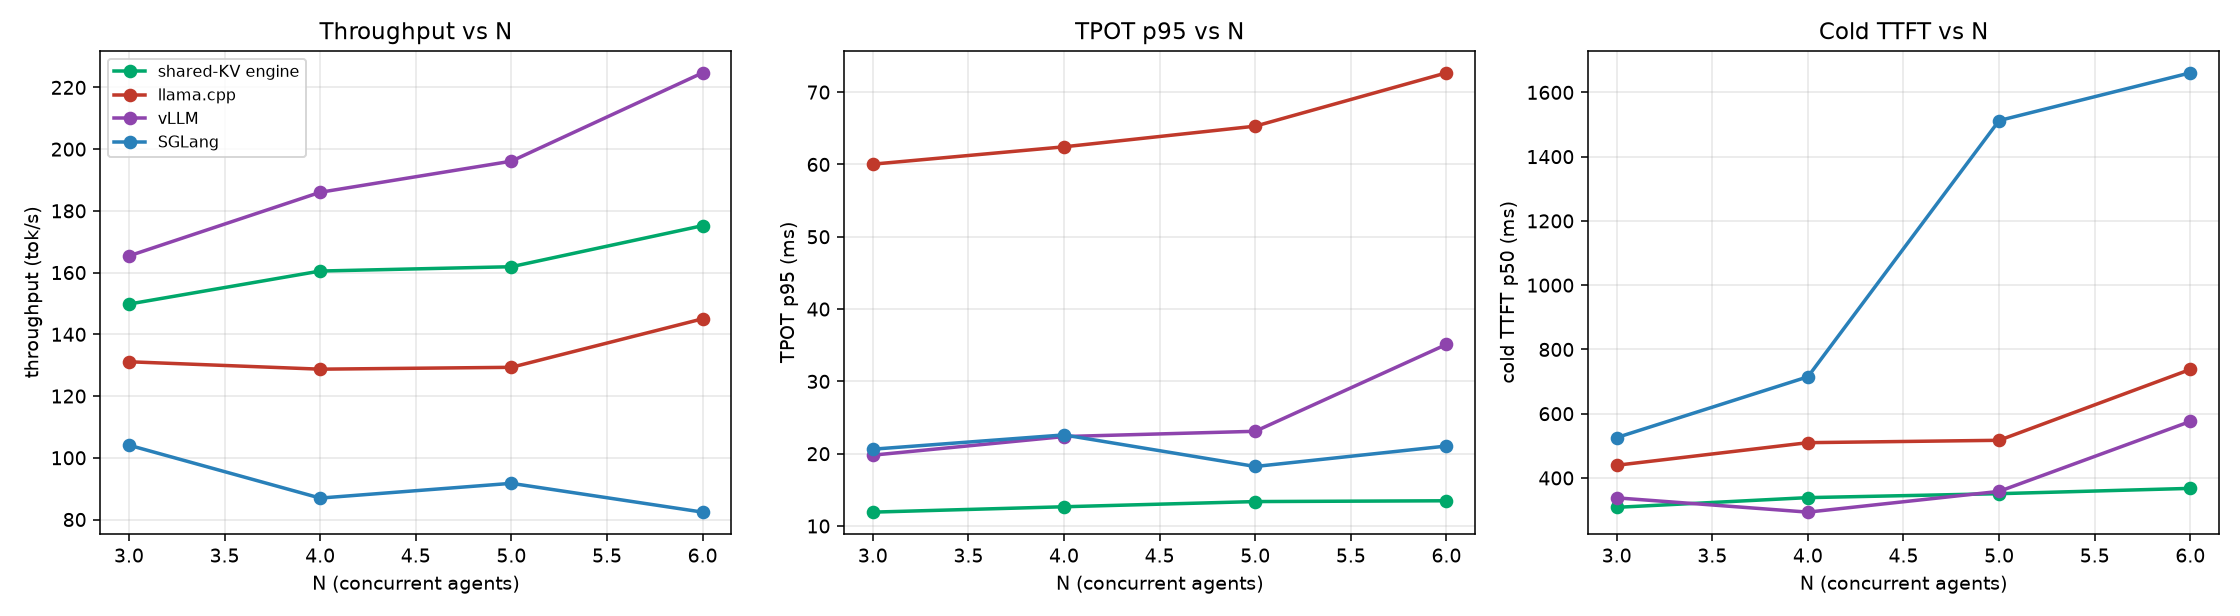
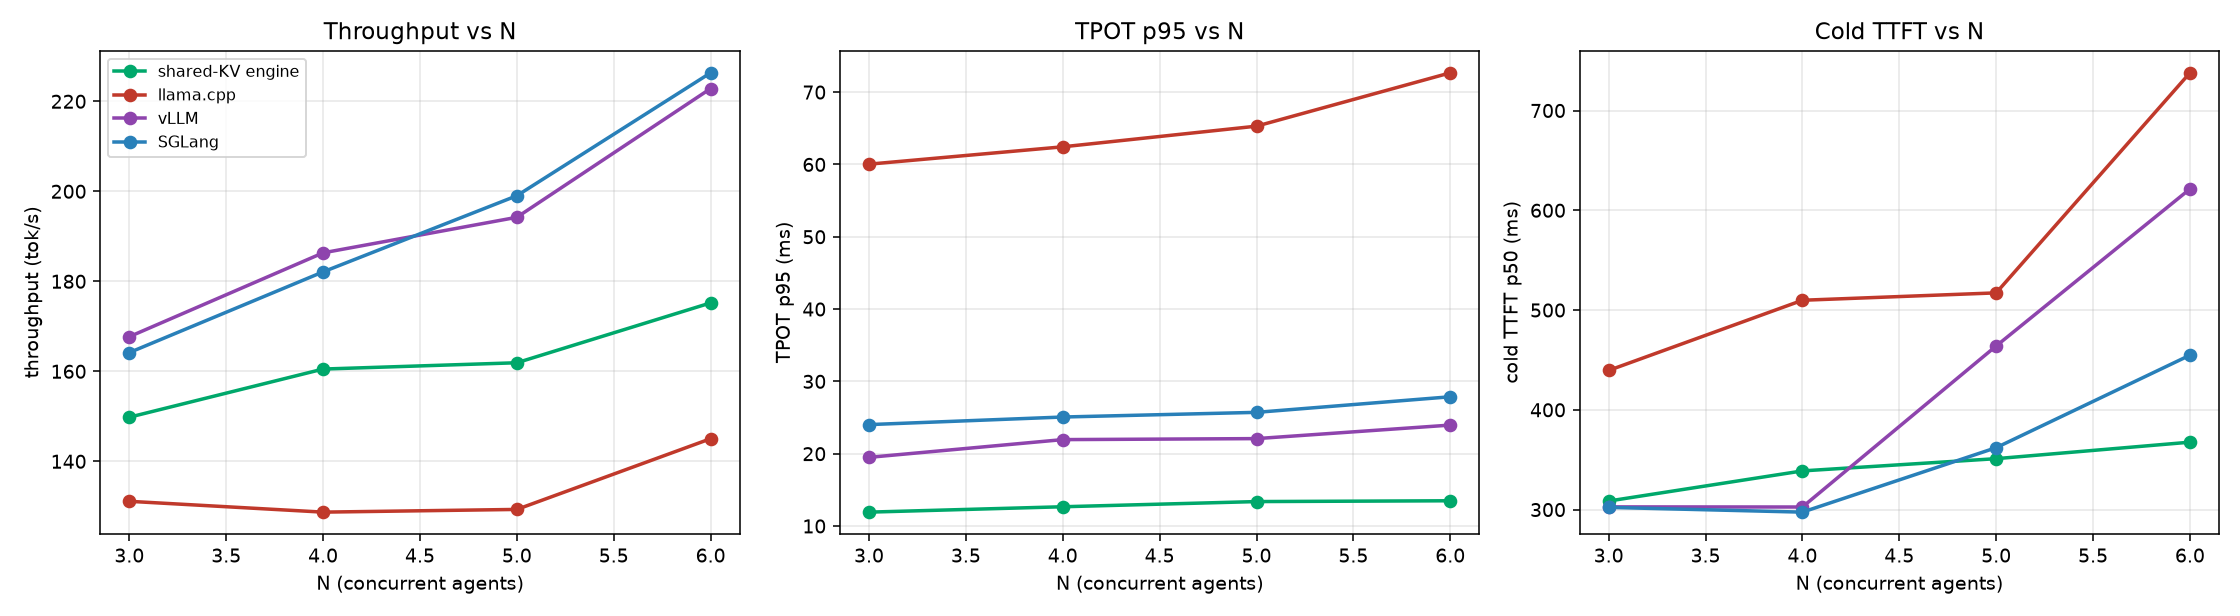
re-align 3B 4-way: re-measure vLLM/SGLang with adequate context (vLLM max-model-len 32768, SGLang max-total-tokens 49152); update figures + per-paradigm results + pitfalls

diff --git a/src/agentserve_repro/backends.py b/src/agentserve_repro/backends.py
@@ -49,7 +49,7 @@ class VllmBackend(StreamMixin, ServingBackend):
     def start(self):
         import subprocess
         cmd=[self.python,"-m","vllm.entrypoints.openai.api_server","--model",self.model_path,
-             "--host",self.host,"--port",str(self.port),"--gpu-memory-utilization","0.9","--max-model-len","49152"]
+             "--host",self.host,"--port",str(self.port),"--gpu-memory-utilization","0.9","--max-model-len","32768"]
         self.proc=subprocess.Popen(cmd, stdout=open("/tmp/vllm_backend.log","w"), stderr=subprocess.STDOUT)
         import urllib.request,time
         for _ in range(200):

diff --git a/results/perparadigm-4way.md b/results/perparadigm-4way.md
@@ -9,9 +9,9 @@ tool_wait=0, RTX 3090, Qwen2.5-3B (BASE).
 
 | metric (N) | engine | llama.cpp | vLLM | SGLang |
 |---|---|---|---|---|
-| throughput 3→6 (tok/s) | 149.8→175.2 | 131.1→145.0 | 165.4→224.7 | 104.1→82.4 |
-| TPOT p95 3→6 (ms) | **11.9→13.5** | 60.0→72.7 | 19.8→35.1 | 20.6→21.1 |
-| cold TTFT 3→6 (ms) | **308.6→367.6** | 439.5→737.8 | 338.1→575.9 | 525.6→1660.9 |
+| throughput 3→6 (tok/s) | 149.8→175.2 | 131.1→145.0 | 167.7→222.8 | 164.2→226.3 |
+| TPOT p95 3→6 (ms) | **11.9→13.5** | 60.0→72.7 | 19.5→24.0 | 24.0→27.9 |
+| cold TTFT 3→6 (ms) | **308.6→367.6** | 439.5→737.8 | 302.7→621.4 | 302.2→454.8 |
 
 ![ReAct 4-way](figures/react-4way-nscale.png)
 
@@ -19,27 +19,35 @@ tool_wait=0, RTX 3090, Qwen2.5-3B (BASE).
 
 | metric (N) | engine | llama.cpp | vLLM | SGLang |
 |---|---|---|---|---|
-| throughput 3→6 (tok/s) | 162.5→192.2 | 145.1→147.7 | 169.5→255.0 | 105.3→84.2 |
-| TPOT p95 3→6 (ms) | **11.8→13.5** | 50.2→70.7 | 23.3→33.0 | 11.6→11.2 |
-| cold TTFT 3→6 (ms) | **316.5→383.8** | 412.3→773.2 | 443.8→779.6 | 779.6→1975.0 |
+| throughput 3→6 (tok/s) | 162.5→192.2 | 145.1→147.7 | 170.4→259.1 | 179.5→243.1 |
+| TPOT p95 3→6 (ms) | **11.8→13.5** | 50.2→70.7 | 22.0→38.7 | 24.8→31.4 |
+| cold TTFT 3→6 (ms) | **316.5→383.8** | 412.3→773.2 | 343.0→603.4 | 335.0→478.2 |
 
 ![P&E 4-way](figures/pe-4way-nscale.png)
 
 ## Findings (consistent across paradigms)
 
 - **The shared-KV engine is the latency-stability leader in BOTH paradigms**: its **TPOT p95 stays
-  flat at ~12–14 ms** across N=3…6 (llama.cpp explodes to 60–73 ms; vLLM/SGLang rise to 20–35 ms),
-  and its **cold TTFT is the lowest and flat** (~300–380 ms, shared-system-prefix caching) while every
-  baseline degrades with N (SGLang cold TTFT explodes to 1660–1975 ms).
-- **Throughput is NOT the engine's strength**: vLLM is the highest in both paradigms (165→255 tok/s);
-  the engine is consistently 2nd (150→192), ahead of llama.cpp and well ahead of SGLang.
-- **P&E vs ReAct**: the engine behaves the same (flat TPOT/TTFT). SGLang has unusually **low TPOT p95
-  in P&E** (~11 ms) but the **worst cold TTFT** (explodes to 1975 ms) and the lowest throughput — a
-  strong latency-vs-throughput tradeoff.
+  flat at ~12–14 ms** across N=3…6, while llama.cpp explodes (50–73 ms) and vLLM/SGLang rise
+  (20–39 ms). Its **cold TTFT is the lowest and roughly flat** (~310–385 ms, shared-system-prefix
+  caching) while every baseline degrades with N (vLLM 302→621 ms, SGLang 302→455 ms, llama 440→773 ms).
+- **Throughput is NOT the engine's strength**: **vLLM (168→259) and SGLang (164→243) now lead** —
+  once the SGLang harness bug was fixed, SGLang's throughput is on par with vLLM and **above the
+  engine**. The engine is 3rd (150→192), ahead of llama.cpp (131–148).
+- **P&E vs ReAct**: the engine behaves identically (flat TPOT/TTFT). llama.cpp is worst on latency
+  (TPOT p95 50–73 ms, coldest TTFT) in both.
 
-**Conclusion**: this is the honest, per-paradigm serving comparison. The engine delivers **decode
-stability + low cold latency via prefix caching**, at **competitive (not maximal) throughput** — the
-paper's thesis. The absolute numbers are for the BASE Qwen2.5-3B (no native tool-calling; model
+> **Note on SGLang/vLLM numbers.** These were **re-measured with adequate context**. The earlier
+> harness hard-coded `--max-total-tokens 8192` for SGLang, which starved its total KV-cache pool and
+> made it look like the worst backend (throughput dropped with N, cold TTFT exploded to 1–2 s). That
+> was a **harness bug, not an SGLang limitation**. Now SGLang uses `--max-total-tokens 49152`
+> (KV pool) and vLLM uses `--max-model-len 32768` (must not exceed the model's native
+> `max_position_embeddings` = 32768). See [`docs/pitfalls.md`](docs/pitfalls.md).
+
+**Conclusion**: the engine delivers **decode stability + low cold latency via prefix caching** at
+**competitive (not maximal) throughput** — i.e. it trades some throughput for TTFT/TPOT stability
+(paper's thesis). vLLM/SGLang get higher throughput but clearly higher TPOT p95 and cold TTFT under
+concurrency; llama.cpp is worst on latency. The absolute numbers are for the BASE Qwen2.5-3B (no native tool-calling; model
 produces plan-style output), so they measure serving performance, not agent quality.
 
 ## Repro

diff --git a/docs/pitfalls.md b/docs/pitfalls.md
@@ -93,6 +93,18 @@ RTX 3090 bench server. Each entry: **symptom → root cause → fix**. Add to th
     at once, so all `TOKEN_EMIT` share one timestamp.
   - **Fix:** `submit()` must `yield from self.stream_completion(...)`.
 - **Symptom:** `serve_backend.py` uses a stale model path (old `/root/autodl-tmp/models`).
+- **Symptom:** SGLang looks like the worst backend (throughput DROPS as N grows, cold TTFT
+  explodes to 1–2 s), yet vLLM is fine.
+  - **Root cause:** `SglangBackend.start()` hard-coded `--max-total-tokens 8192`. In SGLang this is the
+    **total KV-cache pool budget**, not a per-sequence limit. With N concurrent multi-phase sessions
+    (~3 k-token cold prompts) the pool saturates (`token usage` → 0.95), so only 1–2 requests run and
+    the rest queue (`#running-req: 1–2`, `#queue-req: 4–5`, `#pending-token ~14 k`).
+  - **Fix:** give SGLang a pool big enough for N sessions, e.g. `--max-total-tokens 49152`.
+- **Symptom:** vLLM refuses to start with `--max-model-len 49152`.
+  - **Root cause:** `--max-model-len` is a **per-sequence** cap and must not exceed the model's native
+    `max_position_embeddings` (Qwen2.5-3B = 32768). vLLM refuses with
+    `VLLM_ALLOW_LONG_MAX_MODEL_LEN` unless explicitly overridden (which risks RoPE NaN/OOB).
+  - **Fix:** use `--max-model-len 32768` (native max) for Qwen2.5.
 
 ---
 
@@ -102,8 +114,10 @@ RTX 3090 bench server. Each entry: **symptom → root cause → fix**. Add to th
   EOS behavior. (The original engine ran fewer sessions and skipped tool_wait → not comparable.)
 - **tool_wait**: the engine must simulate the 200 ms tool wait (per-session `wait_until` gate), or its
   wall time is compute-only and throughput is overstated vs baselines that include tool_wait.
-- **Context length is not uniform** across backends (engine 65536, llama 24576, vLLM/SGLang 8192).
-  Prompts fit, but document it.
+- **Context must be adequate & semantically matched across backends**: engine `n_ctx` and SGLang
+  `--max-total-tokens` are **pool** budgets (use 49152 for 3B); vLLM `--max-model-len` and llama
+  `context_length` are **per-sequence/per-context** (use 32768 / 65536). Under-sized pools (SGLang
+  8192) starve concurrency and wreck the comparison. See `src/agentserve_repro/backends.py`.
 - `metrics.py`: `throughput_excl_tool_wait_tokens_per_s` is **broken for concurrent** workloads — it
   *sums* per-session tool_wait (which, under concurrency, exceeds wall → denominator ~0 → huge/999…).
   Use the union-of-idle-intervals approach, or report `throughput_tokens_per_s` with the caveat.
